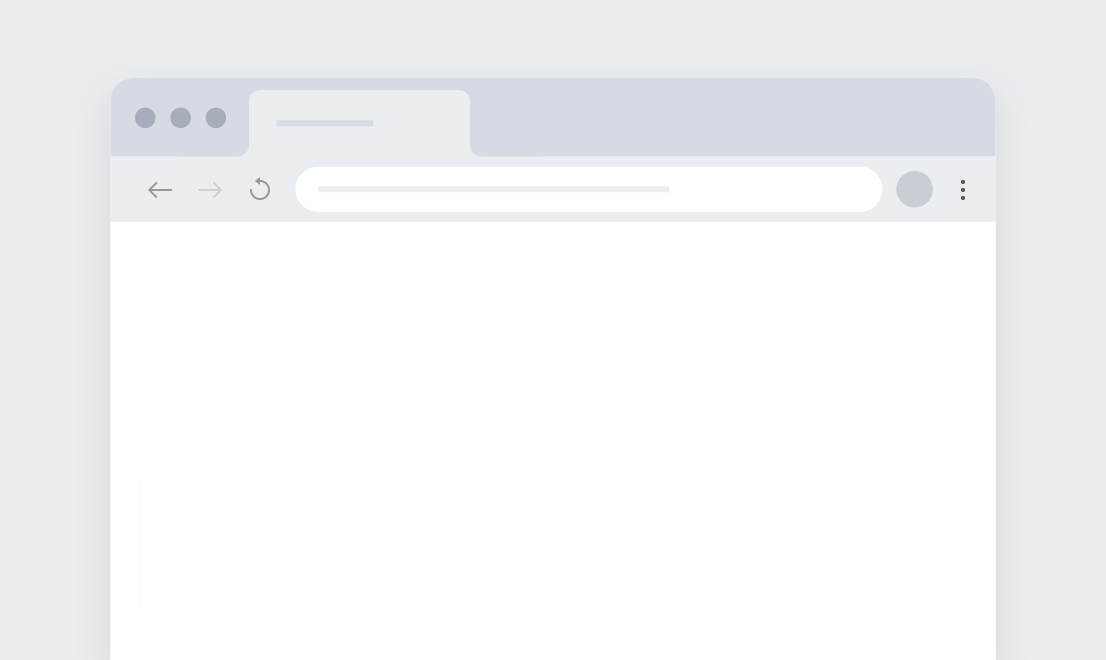
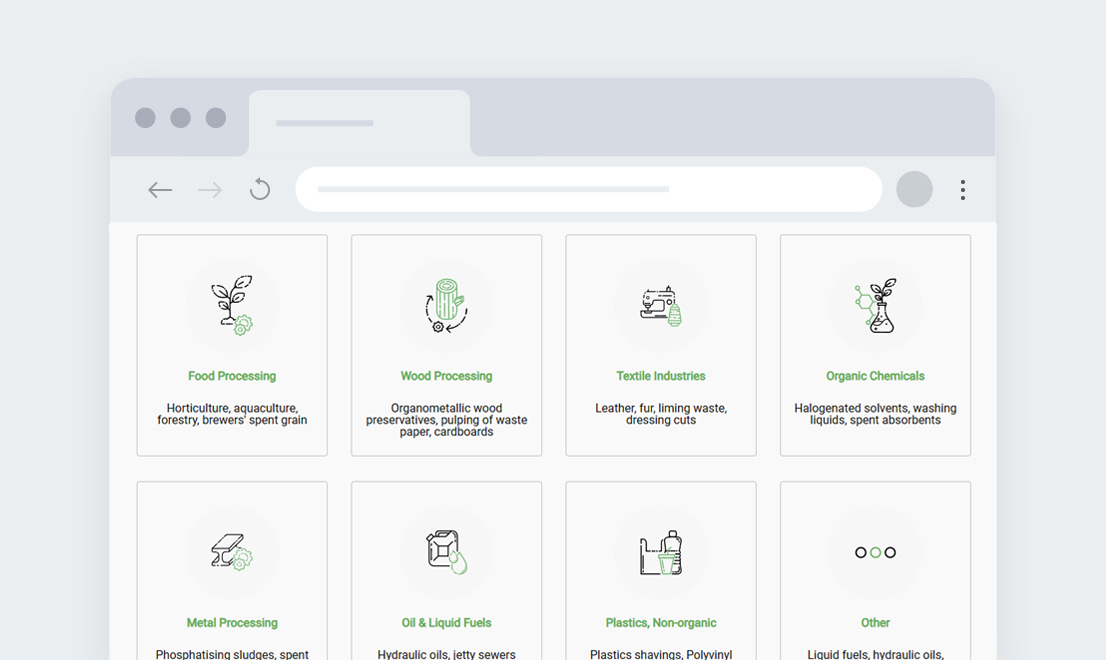
1.0.0
Added font and color controllers. Updated placeholder image.

diff --git a/public/cards/index.js b/public/cards/index.js
@@ -1,1 +1,1 @@
-!function(){"use strict";function t(t,n){for(var a=0;a<n.length;a++){var o=n[a];o.enumerable=o.enumerable||!1,o.configurable=!0,"value"in o&&(o.writable=!0),Object.defineProperty(t,e(o.key),o)}}function e(t){var e=function(t,e){if("object"!=typeof t||null===t)return t;var n=t[Symbol.toPrimitive];if(void 0!==n){var a=n.call(t,e||"default");if("object"!=typeof a)return a;throw new TypeError("@@toPrimitive must return a primitive value.")}return("string"===e?String:Number)(t)}(t,"string");return"symbol"==typeof e?e:String(e)}const n=t=>0===(t=String(t)).length?"":t.replace(/[&<>'"]/g,(t=>({"&":"&amp;","<":"&lt;",">":"&gt;","'":"&apos;",'"':"&quot;"}[t]))),a=(t,...e)=>{if(0===(t=String(t)).length)return"";return((t,e,...n)=>{let a=(t,e)=>(e.forEach(((e,n)=>{t=t.replace("%"+(n+1)+"$",e)})),t);return void 0===window.i18n||void 0===window.i18n.state.locale.values[t]?a(t,n):a(e(window.i18n.state.locale.values[t]),n)})(t,(t=>t.replace(/[&<>'"]/g,(t=>({"&":"&amp;","<":"&lt;",">":"&gt;","'":"&apos;",'"':"&quot;"}[t])))),...e)},o=()=>{let t=new URLSearchParams(window.location.search);return t.get("sid")?t.get("sid"):""},r=t=>{let e=t+"=",n=decodeURIComponent(document.cookie).split(";");for(let t=0;t<n.length;t++){let a=n[t];for(;" "==a.charAt(0);)a=a.substring(1);if(0==a.indexOf(e))return a.substring(e.length,a.length)}return""};r("kenzap_api_key"),r("locale")&&r("locale"),(()=>{let t=localStorage.hasOwnProperty("header")&&localStorage.hasOwnProperty("header-version")?localStorage.getItem("header-version"):0,e=window.location.hostname+"/"+o()+"/"+r("locale");e!=r("check")&&(t=0,console.log("refresh")),((t,e,n)=>{let a="";if(n){let t=new Date;t.setTime(t.getTime()+24*n*60*60*1e3),a=";expires="+t.toUTCString()}document.cookie=t+"="+(escape(e)||"")+a+";path=/;domain=.kenzap.cloud"})("check",e,5)})(),r("kenzap_token"),o();var i,c,l,s=(i=function t(o){var r,i,c,l=this;!function(t,e){if(!(t instanceof e))throw new TypeError("Cannot call a class as a function")}(this,t),r=this,c=function(){document.querySelector("#content").insertAdjacentHTML("beforeend",'\n\t\t<section id="'.concat(n(l.data.id),'" \n\t\tclass="kMBh0N ').concat(l.data.c.classes?n(l.data.c.classes):"",'" \n\t\tstyle="').concat(n(l.data.c.section),'">\n\t\t\t<div class="container" style="').concat(n(l.data.c.container),'">\n\t\t\t\t<ul class="services">\n\t\t\t\t\t').concat(l.data.items.map((function(t){return'\n\t\t\t\t\t\t\t<li>\n\t\t\t\t\t\t\t\t<a href="'.concat((e=t.link.value,0===(e=String(e)).length?"":e.replace(/[&<>'"]/g,(t=>({"&":"&amp;","<":"&lt;",">":"&gt;","'":"&apos;",'"':"&quot;"}[t])))),'">\n\t\t\t\t\t\t\t\t\t<span class="ico-holder">\n\t\t\t\t\t\t\t\t\t\t<img src=').concat(t.icon.value,' alt="" style="width:').concat(t.iconSize.value,"px\"/>\n\t\t\t\t\t\t\t\t\t</span>\n\t\t\t\t\t\t\t\t\t<strong class='h3'> ").concat(a(t.heading.value)," </strong>\n\t\t\t\t\t\t\t\t\t<p> ").concat(a(t.text.value)," </p>\n\t\t\t\t\t\t\t\t</a>\n\t\t\t\t\t\t\t</li>\n\t\t\t\t\t\t");var e})).join(""),"\n\t\t\t\t</ul>\n\t\t\t</div>\n\t\t</section>\n\t\t"))},(i=e(i="render"))in r?Object.defineProperty(r,i,{value:c,enumerable:!0,configurable:!0,writable:!0}):r[i]=c,this.data=o,this.render()},c&&t(i.prototype,c),l&&t(i,l),Object.defineProperty(i,"prototype",{writable:!1}),i);window.kMBh0N=s}();
+!function(){"use strict";function t(t,n){for(var a=0;a<n.length;a++){var o=n[a];o.enumerable=o.enumerable||!1,o.configurable=!0,"value"in o&&(o.writable=!0),Object.defineProperty(t,e(o.key),o)}}function e(t){var e=function(t,e){if("object"!=typeof t||null===t)return t;var n=t[Symbol.toPrimitive];if(void 0!==n){var a=n.call(t,e||"default");if("object"!=typeof a)return a;throw new TypeError("@@toPrimitive must return a primitive value.")}return("string"===e?String:Number)(t)}(t,"string");return"symbol"==typeof e?e:String(e)}const n=t=>0===(t=String(t)).length?"":t.replace(/[&<>'"]/g,(t=>({"&":"&amp;","<":"&lt;",">":"&gt;","'":"&apos;",'"':"&quot;"}[t]))),a=(t,...e)=>{if(0===(t=String(t)).length)return"";return((t,e,...n)=>{let a=(t,e)=>(e.forEach(((e,n)=>{t=t.replace("%"+(n+1)+"$",e)})),t);return void 0===window.i18n||void 0===window.i18n.state.locale.values[t]?a(t,n):a(e(window.i18n.state.locale.values[t]),n)})(t,(t=>t.replace(/[&<>'"]/g,(t=>({"&":"&amp;","<":"&lt;",">":"&gt;","'":"&apos;",'"':"&quot;"}[t])))),...e)},o=()=>{let t=new URLSearchParams(window.location.search);return t.get("sid")?t.get("sid"):""},r=t=>{let e=t+"=",n=decodeURIComponent(document.cookie).split(";");for(let t=0;t<n.length;t++){let a=n[t];for(;" "==a.charAt(0);)a=a.substring(1);if(0==a.indexOf(e))return a.substring(e.length,a.length)}return""};r("kenzap_api_key"),r("locale")&&r("locale"),(()=>{let t=localStorage.hasOwnProperty("header")&&localStorage.hasOwnProperty("header-version")?localStorage.getItem("header-version"):0,e=window.location.hostname+"/"+o()+"/"+r("locale");e!=r("check")&&(t=0,console.log("refresh")),((t,e,n)=>{let a="";if(n){let t=new Date;t.setTime(t.getTime()+24*n*60*60*1e3),a=";expires="+t.toUTCString()}document.cookie=t+"="+(escape(e)||"")+a+";path=/;domain=.kenzap.cloud"})("check",e,5)})(),r("kenzap_token"),o();var c,i,l,s=(c=function t(o){var r,c,i,l=this;!function(t,e){if(!(t instanceof e))throw new TypeError("Cannot call a class as a function")}(this,t),r=this,i=function(){document.querySelector("#content").insertAdjacentHTML("beforeend",'\n\t\t<section id="'.concat(n(l.data.id),'" \n\t\tclass="kMBh0N ').concat(l.data.c.classes?n(l.data.c.classes):"",'" \n\t\tstyle="').concat(n(l.data.c.section)," --theme-font: ").concat(l.data.font.value,'">\n\t\t\t<div class="container" style="').concat(n(l.data.c.container),'">\n\t\t\t\t<ul class="services">\n\t\t\t\t\t').concat(l.data.items.map((function(t){return'\n\t\t\t\t\t\t\t<li>\n\t\t\t\t\t\t\t\t<a href="'.concat((e=t.link.value,0===(e=String(e)).length?"":e.replace(/[&<>'"]/g,(t=>({"&":"&amp;","<":"&lt;",">":"&gt;","'":"&apos;",'"':"&quot;"}[t])))),'" style="--theme-color: ').concat(l.data.themeColor.value,'">\n\t\t\t\t\t\t\t\t\t<span class="ico-holder">\n\t\t\t\t\t\t\t\t\t\t<img src=').concat(t.icon.value,' alt="" style="width:').concat(t.iconSize.value,"px\"/>\n\t\t\t\t\t\t\t\t\t</span>\n\t\t\t\t\t\t\t\t\t<strong class='h3'> ").concat(a(t.heading.value)," </strong>\n\t\t\t\t\t\t\t\t\t<p> ").concat(a(t.text.value)," </p>\n\t\t\t\t\t\t\t\t</a>\n\t\t\t\t\t\t\t</li>\n\t\t\t\t\t\t");var e})).join(""),"\n\t\t\t\t</ul>\n\t\t\t</div>\n\t\t</section>\n\t\t"))},(c=e(c="render"))in r?Object.defineProperty(r,c,{value:i,enumerable:!0,configurable:!0,writable:!0}):r[c]=i,this.data=o,this.render()},i&&t(c.prototype,i),l&&t(c,l),Object.defineProperty(c,"prototype",{writable:!1}),c);window.kMBh0N=s}();

diff --git a/public/cards/index.html b/public/cards/index.html
@@ -7,15 +7,15 @@
 		<meta name="viewport" content="width=device-width, initial-scale=1.0" />
 		<meta http-equiv="X-UA-Compatible" content="ie=edge" />
 		<link href="https://fonts.googleapis.com/css?family=Poppins:400,600|Roboto" rel="stylesheet">
-		<link href="../assets/css/global.css?t=1694708695871" rel="stylesheet">
-		<link href="styles.css?t=1694708695871" rel="stylesheet">
+		<link href="../assets/css/global.css?t=1694774379026" rel="stylesheet">
+		<link href="styles.css?t=1694774379026" rel="stylesheet">
 	</head>
 	<body>
 		<div id="content">
 
 
 		</div>
-		<script type="text/javascript" src="index.js?t=1694708695871"></script>
+		<script type="text/javascript" src="index.js?t=1694774379026"></script>
 		<script>
 
 			document.addEventListener("DOMContentLoaded", () => {
@@ -28,6 +28,20 @@
 						"description": "Customizable card components that include an icon, title, and text description.",
 						"preview": true,
 						"slug": "cards",
+						"themeColor": {
+							"input": "color",
+							"title": "Theme color",
+							"value": "#67AD5B",
+							"default": "#67AD5B",
+							"hint": "Border and title color.",
+						},
+						"font": { 
+							"input": "radio", 
+							"title": "Theme font", 
+							"value": "Roboto", 
+							"default": "Roboto", 
+							"hint": "Choose your desired font." 
+						},
 						"items": [
 							{
 								"icon": {
@@ -44,7 +58,7 @@
 									"max": "56",
 									"min": "12",
 									"default": "",
-									"hint": "Icon size in pixels."
+									"hint": "Icon size in pixels:"
 								},
 								"heading": {
 									"input": "text",

diff --git a/public/src/cards/index.html b/public/src/cards/index.html
@@ -28,6 +28,20 @@
 						"description": "Customizable card components that include an icon, title, and text description.",
 						"preview": true,
 						"slug": "cards",
+						"themeColor": {
+							"input": "color",
+							"title": "Theme color",
+							"value": "#67AD5B",
+							"default": "#67AD5B",
+							"hint": "Border and title color.",
+						},
+						"font": { 
+							"input": "radio", 
+							"title": "Theme font", 
+							"value": "Roboto", 
+							"default": "Roboto", 
+							"hint": "Choose your desired font." 
+						},
 						"items": [
 							{
 								"icon": {
@@ -44,7 +58,7 @@
 									"max": "56",
 									"min": "12",
 									"default": "",
-									"hint": "Icon size in pixels."
+									"hint": "Icon size in pixels:"
 								},
 								"heading": {
 									"input": "text",

diff --git a/src/cards/index.html b/src/cards/index.html
@@ -28,6 +28,20 @@
 						"description": "Customizable card components that include an icon, title, and text description.",
 						"preview": true,
 						"slug": "cards",
+						"themeColor": {
+							"input": "color",
+							"title": "Theme color",
+							"value": "#67AD5B",
+							"default": "#67AD5B",
+							"hint": "Border and title color.",
+						},
+						"font": { 
+							"input": "radio", 
+							"title": "Theme font", 
+							"value": "Roboto", 
+							"default": "Roboto", 
+							"hint": "Choose your desired font." 
+						},
 						"items": [
 							{
 								"icon": {
@@ -44,7 +58,7 @@
 									"max": "56",
 									"min": "12",
 									"default": "",
-									"hint": "Icon size in pixels."
+									"hint": "Icon size in pixels:"
 								},
 								"heading": {
 									"input": "text",

diff --git a/public/accordion/index.html b/public/accordion/index.html
@@ -7,15 +7,15 @@
 		<meta name="viewport" content="width=device-width, initial-scale=1.0" />
 		<meta http-equiv="X-UA-Compatible" content="ie=edge" />
 		<link href="https://fonts.googleapis.com/css?family=Poppins:400,600|Roboto" rel="stylesheet">
-		<link href="../assets/css/global.css?t=1694708695871" rel="stylesheet">
-		<link href="styles.css?t=1694708695871" rel="stylesheet">
+		<link href="../assets/css/global.css?t=1694774379026" rel="stylesheet">
+		<link href="styles.css?t=1694774379026" rel="stylesheet">
 	</head>
 	<body>
 		<div id="content">
 
 
 		</div>
-		<script type="text/javascript" src="index.js?t=1694708695871"></script>
+		<script type="text/javascript" src="index.js?t=1694774379026"></script>
 		<script>
 
 			document.addEventListener("DOMContentLoaded", () => {

diff --git a/src/cards/index.js b/src/cards/index.js
@@ -19,14 +19,14 @@ class kMBh0N{
 		`
 		<section id="${ attr(this.data.id) }" 
 		class="kMBh0N ${ this.data.c.classes ? attr(this.data.c.classes) : '' }" 
-		style="${ attr(this.data.c.section) }">
+		style="${ attr(this.data.c.section) } --theme-font: ${this.data.font.value}">
 			<div class="container" style="${ attr(this.data.c.container) }">
 				<ul class="services">
 					${
 					this.data.items.map(item => {
 						return `
 							<li>
-								<a href="${ html(item.link.value) }">
+								<a href="${ html(item.link.value) }" style="--theme-color: ${this.data.themeColor.value}">
 									<span class="ico-holder">
 										<img src=${item.icon.value} alt="" style="width:${item.iconSize.value}px"/>
 									</span>

diff --git a/public/cards/styles.css b/public/cards/styles.css
@@ -2,6 +2,7 @@
   -webkit-box-sizing: border-box;
   -moz-box-sizing: border-box;
   box-sizing: border-box;
+  font-family: var(--theme-font);
 }
 .kMBh0N .container {
   max-width: 1192px;
@@ -72,7 +73,7 @@
   text-decoration: none;
 }
 .kMBh0N .services li a .h3 {
-  color: #111;
+  color: var(--theme-color);
   max-width: 155px;
   margin: 0 auto 4px;
   line-height: 32px;
@@ -97,5 +98,5 @@
   background: rgba(0, 0, 0, 0.01);
 }
 .kMBh0N .services li a:hover .ico-holder {
-  border-color: var(--textColorB);
+  border-color: var(--theme-color);
 }

diff --git a/src/cards/styles.scss b/src/cards/styles.scss
@@ -30,6 +30,7 @@
         -webkit-box-sizing: border-box;
         -moz-box-sizing: border-box;
         box-sizing: border-box;
+		font-family: var(--theme-font);
     }
 
 	.container {
@@ -98,7 +99,7 @@
 				text-decoration: none;
 
 				.h3 {
-					color: #111;
+					color: var(--theme-color);
 					max-width: 155px;
 					margin: 0 auto 4px;
 					line-height: 32px;
@@ -127,7 +128,7 @@
 				background: rgba(0, 0, 0, 0.01);
 
 				.ico-holder {
-					border-color: var(--textColorB);
+					border-color: var(--theme-color);
 				}
 			}
 		}	
